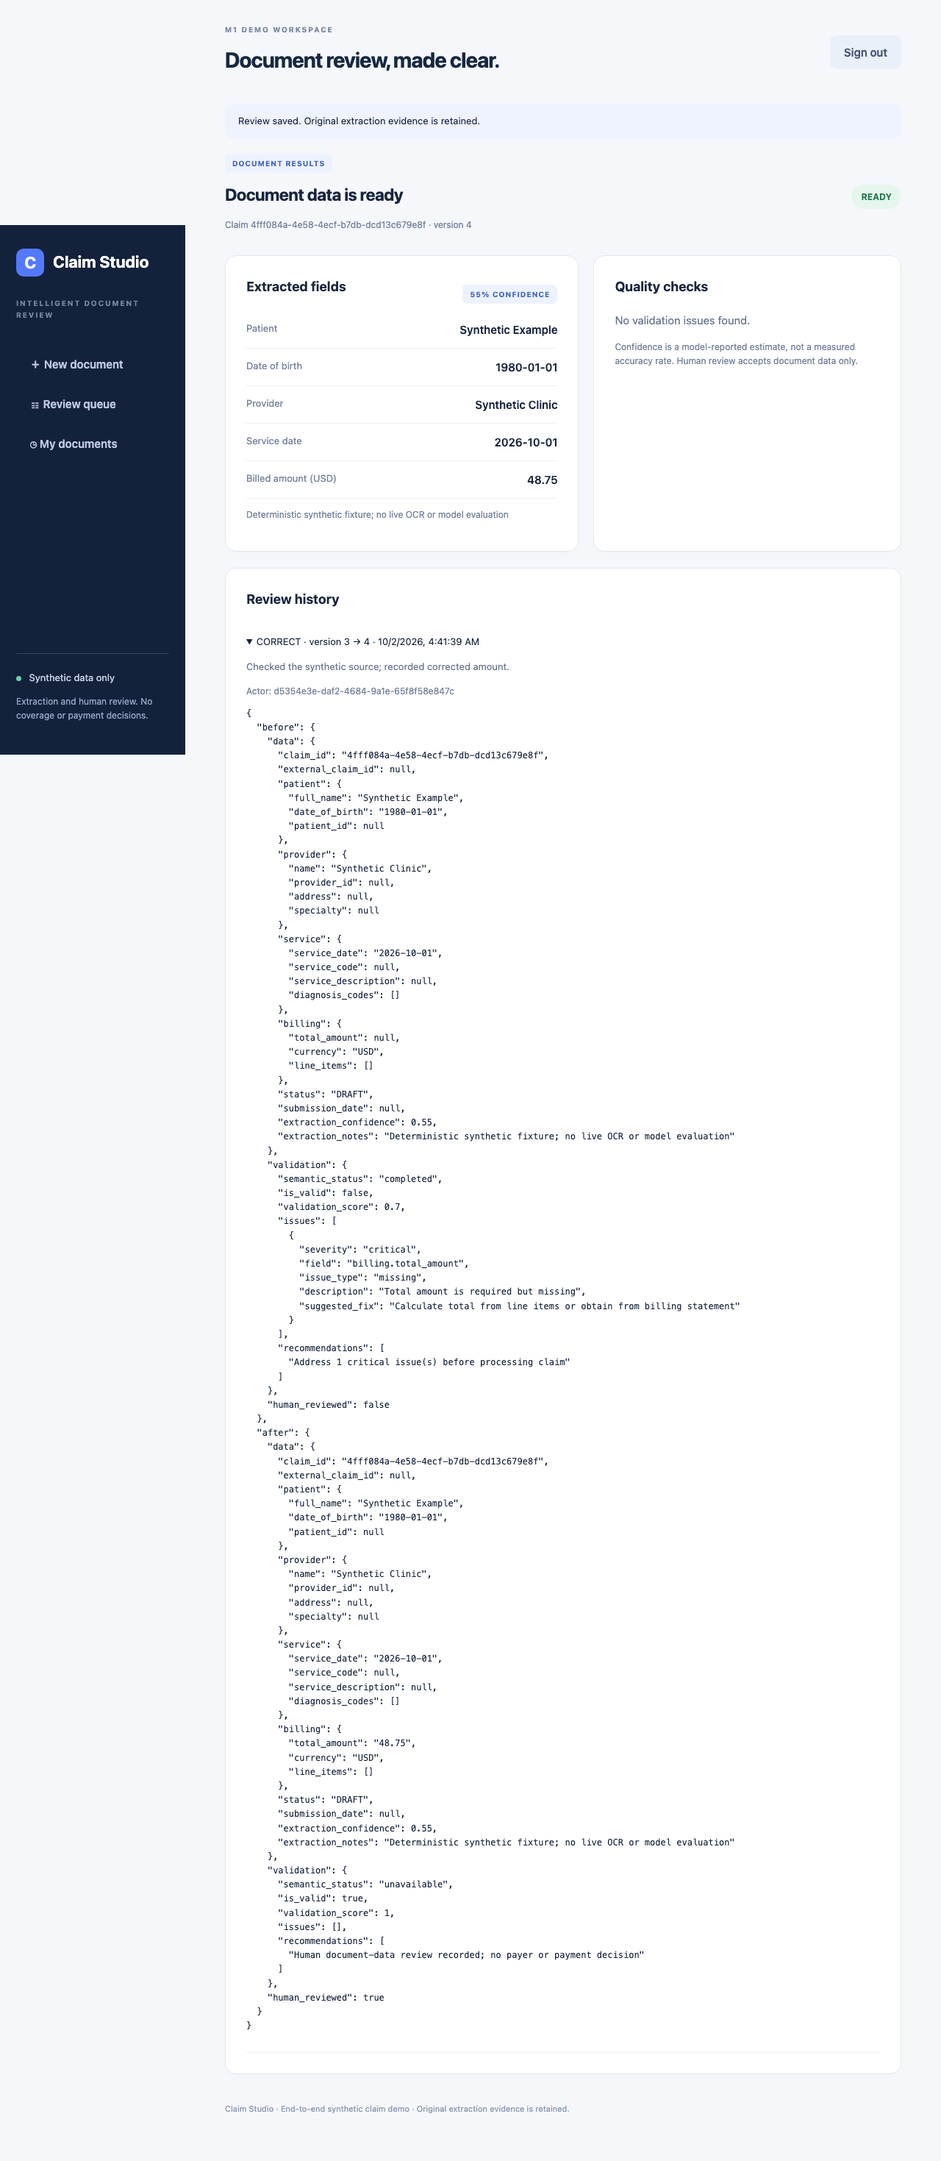
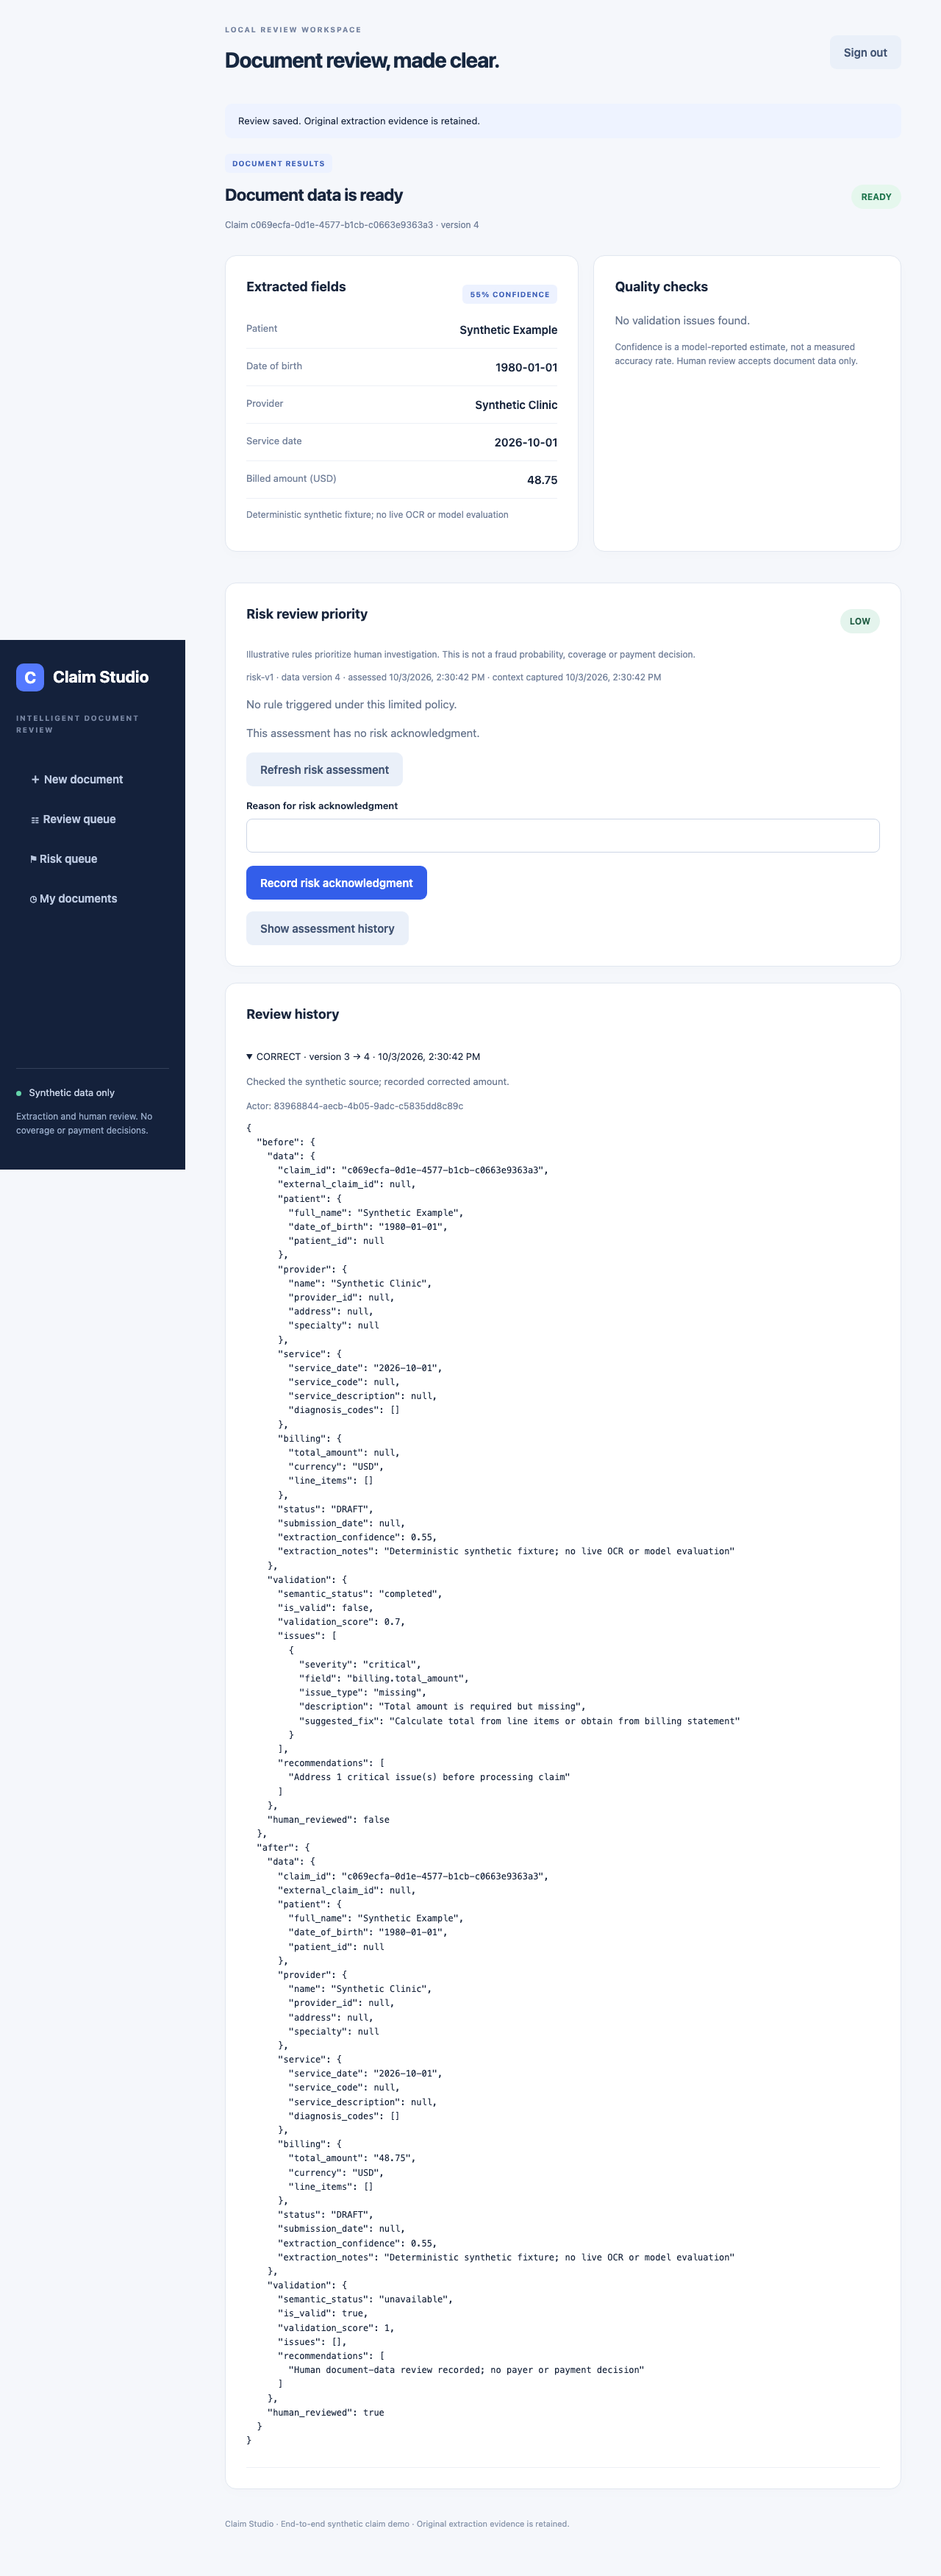
docs: showcase explainable risk triage for recruiter review

diff --git a/README.md b/README.md
@@ -2,7 +2,7 @@
 
 # Intelligent Healthcare Claims System
 
-**From unstructured documents to traceable, human-reviewed data.**
+**From unstructured documents to explainable risk triage and human-reviewed data.**
 
 ![Python](https://img.shields.io/badge/Python-3.12-3776AB?logo=python&logoColor=white)
 ![FastAPI](https://img.shields.io/badge/FastAPI-009688?logo=fastapi&logoColor=white)
@@ -11,7 +11,8 @@
 ![Docker](https://img.shields.io/badge/Docker-2496ED?logo=docker&logoColor=white)
 
 A runnable synthetic healthcare document demo with durable background processing,
-structured extraction, quality checks, and an audited reviewer workspace.
+structured extraction, quality checks, explainable risk classification, and an
+audited reviewer workspace.
 
 [Run the demo](#run-the-demo) · [Architecture](#architecture) · [Engineering](#engineering-highlights) · [Verification](#verification-and-limits)
 
@@ -45,6 +46,17 @@ normalized fields and quality issues, and correct or reject records that need
 human review. The original extraction remains intact, with each review retaining
 actor, reason, timestamp, version, and before/after values.
 
+Every successful extraction receives a versioned **LOW, MEDIUM, HIGH, or
+INSUFFICIENT_DATA** assessment. Reviewers see the triggered rules, refresh duplicate
+context, investigate a prioritized risk queue, and acknowledge a specific assessment
+with a reason. Corrections create new assessments while preserving prior evidence.
+
+![HIGH risk with explainable reasons and independent acknowledgment](docs/screenshots/risk.png)
+
+Risk is **human review priority** under an illustrative rules policy. It is not a
+fraud probability; LOW does not establish absence of fraud. Data approval and risk
+investigation are separate, so a READY claim can remain HIGH risk.
+
 **READY means document data is ready.** It does not authorize insurance coverage
 or payment. This project uses synthetic documents and makes no production
 compliance claim.
@@ -64,11 +76,14 @@ docker compose --env-file .env.docker up -d --wait
 Open **http://127.0.0.1:8000/demo**. Sign in using `DEMO_PASSWORD` from the private,
 gitignored `.env.docker` file. Download a labeled sample from the upload screen:
 
-| Sample | Fixture outcome | Try this |
+| Sample | Fixture outcome / risk | Try this |
 | --- | --- | --- |
-| Complete claim | READY | Inspect fields, confidence, and validation. |
-| Missing amount / low confidence | REVIEW_REQUIRED | Choose “Correct and accept data,” enter `48.75`, and provide a reason. |
-| Simulated provider failure | FAILED | Inspect the safe failure and retry with a fresh job. |
+| Complete claim | READY / LOW | Inspect fields, confidence, and assessment history. |
+| Missing amount / low confidence | REVIEW_REQUIRED / INSUFFICIENT_DATA | Correct the amount to `48.75`; compare the original and new assessments. |
+| Medium amount | READY / MEDIUM | Inspect the illustrative USD amount rule and risk queue. |
+| High amount | REVIEW_REQUIRED / HIGH | Accept the data and confirm HIGH persists; record a separate risk acknowledgment. |
+| Complete claim uploaded again | READY / HIGH | Upload the same bytes twice in one workspace; refresh the first claim to see its updated duplicate snapshot. |
+| Simulated provider failure | FAILED / no assessment | Inspect the safe failure and retry with a fresh job. |
 
 Compose runs separate API and worker processes with PostgreSQL and shared durable
 uploads. It binds to loopback and incurs no hosting cost. A fresh browser login
@@ -89,11 +104,13 @@ flowchart LR
     MODE -->|Fixture| FIX[Hash-checked synthetic corpus]
     OCR --> V[Normalize + validate]
     FIX --> V
-    V --> R[Atomic results: READY / REVIEW_REQUIRED]
+    V --> R[Atomic results + versioned risk assessment]
     R --> DB
     DB --> UI
     UI --> REVIEW[Versioned human review + immutable evidence]
     REVIEW --> DB
+    DB --> QUEUE[Risk queue + reasons + independent acknowledgment]
+    QUEUE --> UI
 ```
 
 Fixture mode is explicit (`SYNTHETIC_MODE=true` in the generated local config) and
@@ -110,6 +127,8 @@ accuracy. See [provider setup](docs/providers.md).
 | Request deduplication | One active job per document; persisted idempotency aliases retain the original accepted job across retries. |
 | Data quality | Strict extraction contracts, exact decimal amounts, date normalization, deterministic rules, semantic checks, and explicit confidence gates. |
 | Human review | Row locking and expected versions serialize decisions; corrections revalidate without overwriting original evidence. |
+| Explainable risk | Pure versioned rules, exact decimal thresholds, conservative missing-data handling, and owner-scoped duplicate snapshots. |
+| Risk audit | Immutable assessments and reasoned acknowledgments; atomic publication, explicit refresh, and SQL-filtered priority queue. |
 | Access boundaries | Revocable opaque browser sessions, isolated record ownership, exact-origin CSRF, operator workspace, and secret-free frontend assets. |
 | Upload lifecycle | Bounded signature-checked files, generated private storage names, commit-aware cleanup, and lock-coordinated crash reconciliation. |
 | Operability | Nonroot containers, pinned bases/dependencies, migration startup gates, database/storage readiness, safe logs, paired backups, and restore rehearsal. |
@@ -120,6 +139,7 @@ accuracy. See [provider setup](docs/providers.md).
 - [Extraction graph](agents/graphs/extraction_graph.py): OCR, structured extraction, normalization, and validation.
 - [Canonical schema](schema/claim_data.py): dates, exact amounts, and normalized document fields.
 - [Review service](services/review_service.py): serialized decisions and append-only audit snapshots.
+- [Risk engine](services/risk_engine.py), [storage](services/risk_storage.py), and [policy](docs/risk.md): deterministic decisions, immutable evidence, and assessment lifecycle.
 - [Access handling](api/auth.py) and [scope checks](services/access_service.py): browser sessions and workspace boundaries.
 - [Upload reconciliation](services/upload_reconciliation.py): safe recovery after crashes and uncertain commits.
 - [Browser interface](web/) and [tests](tests/): executable review experience and its verification.
@@ -127,7 +147,8 @@ accuracy. See [provider setup](docs/providers.md).
 ## API and development
 
 Protected APIs include claim create/list/read, document upload/metadata, extraction
-enqueue, job polling, result lookup, review queue, and review actions/history.
+enqueue, job polling, result lookup, review queue, review actions/history, risk
+assessment/history/refresh, independent acknowledgment, and filtered risk queue.
 Public routes serve liveness, the login shell, static assets, samples, and OpenAPI.
 The operator bearer token stays server-side and owns its own workspace.
 
@@ -152,7 +173,10 @@ Local checks cover real PostgreSQL transactions and concurrent requests, an actu
 worker-process crash/restart, Chromium upload/review flows, and full Docker
 persistence plus paired database/upload restore. CI runs setup, lint/docs/unit,
 PostgreSQL/migrations, browser, and container checks. Evidence and release details
-are in [verification](docs/verification/) and [M1 release notes](docs/releases/m1.md).
+are in [verification](docs/verification/) and [risk release notes](docs/releases/risk-v1.md).
+The risk release passed **303 Python tests**, **three Chromium workflows**, and
+**11 Docker migration/restart/restore checks**. Six declared synthetic scenarios
+match the policy; this measures rule conformance, not predictive fraud accuracy.
 
 Live Azure/LLM evaluation is **not yet performed**: no provider credentials/model
 are configured, sample size is zero, and no accuracy or latency benchmark is
@@ -163,7 +187,10 @@ records this limitation.
 This is a local synthetic demo. It does not provide persistent user accounts,
 public hosting, automatic retention, document malware scanning, payer integration,
 or production authorization/compliance. Upload format checks are basic signatures.
-Corpus dates are fixed; date-sensitive validation can change as they age.
+Synthetic date validation uses the manifest's recorded reference date for reproducible
+demonstrations. Live processing uses the actual validation date. Existing M1 results
+are preserved on upgrade with no assessment until explicitly refreshed.
 
-The [M1 tracker](https://github.com/jengaWiz/Intelligent-Healthcare-Claims-system/issues/16)
-links implementation PRs and outstanding external verification.
+The [risk tracker](https://github.com/jengaWiz/Intelligent-Healthcare-Claims-system/issues/47)
+links milestones and implementation PRs. Outstanding live-provider verification
+remains separately tracked in [M1](https://github.com/jengaWiz/Intelligent-Healthcare-Claims-system/issues/16).
